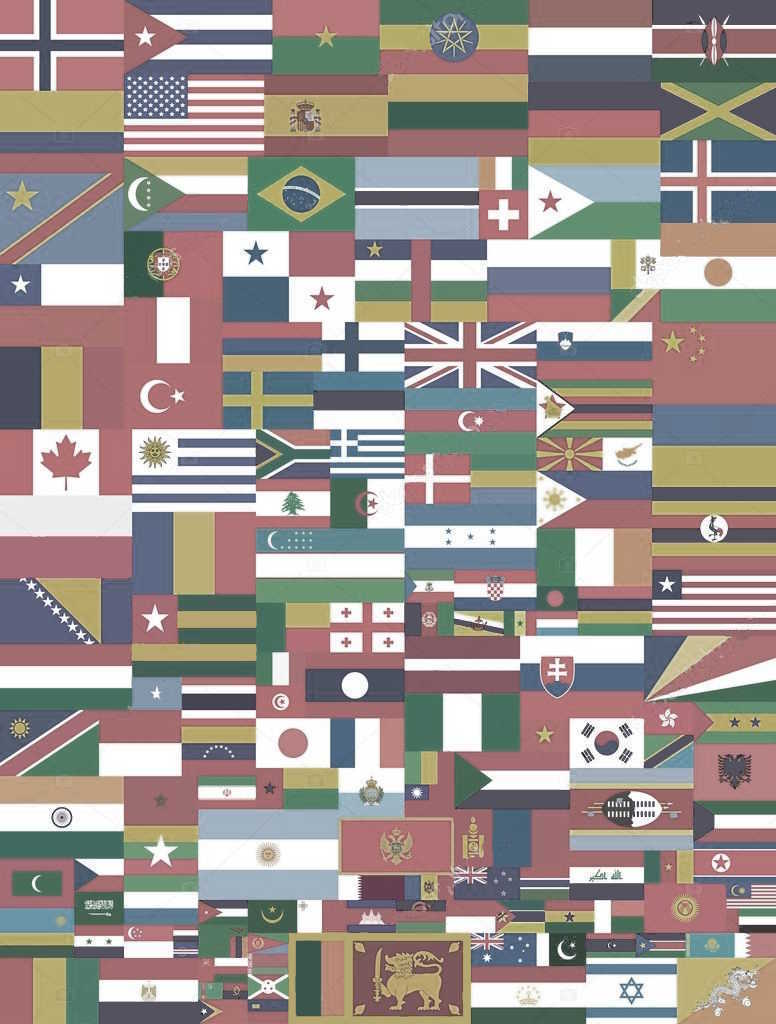
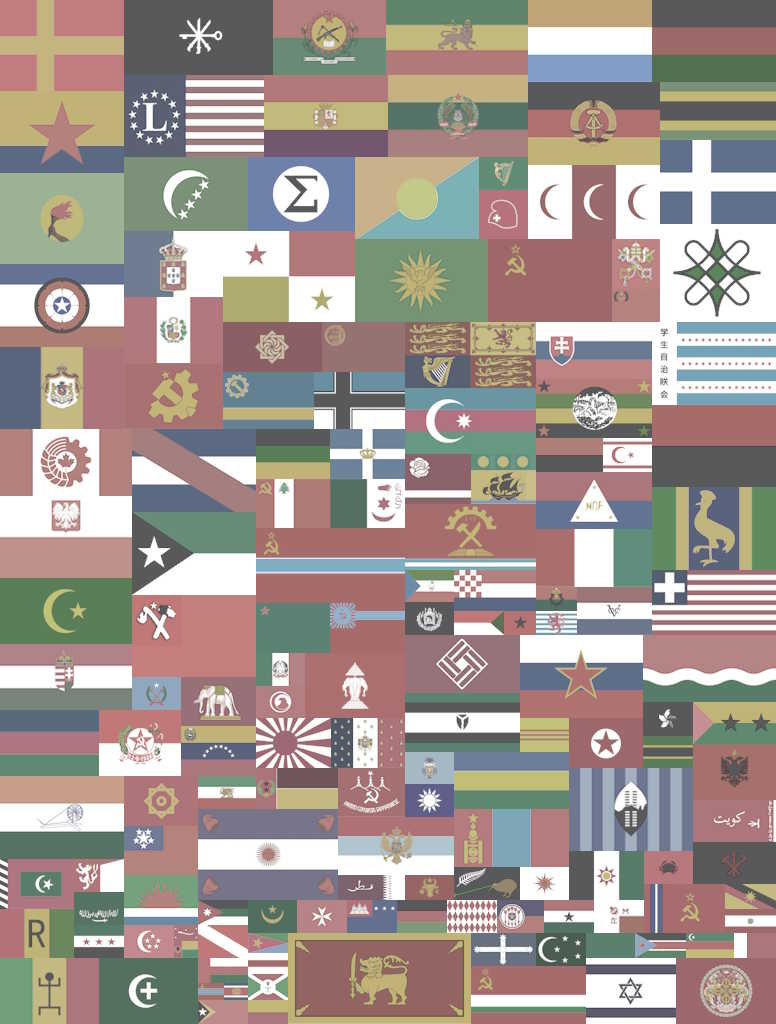
,

diff --git a/index.html b/index.html
@@ -25,9 +25,8 @@
 
         <div class="rail-container">
             <div class="rail-overlay"></div>
-                <button class="left-rail-toggle"><img src="images/menu-arrow.svg"></button>
+            <button class="left-rail-toggle"><img src="images/menu-arrow.svg"></button>
             <aside class="left-rail">
-                <!-- <p>Select Nation</p> -->
                 <div class="left-rail-content">
 
                     <div class="search-bar"><span>Search:</span><input type="text" id="nations-search-filter"
@@ -45,18 +44,21 @@
                         <ul class="nations-list">
                             <img src="https://media.tenor.com/3xTqDrUgvvIAAAAi/error-404.gif" alt="Loading..."
                                 class="loading-gif">
+                            <div>Refresh/reload the website if this takes longer than a minute</div>
                         </ul>
                     </div>
                     <div id="Releasables" class="tabcontent tabcontent-hidden">
                         <ul class="nations-list">
                             <img src="https://media.tenor.com/3xTqDrUgvvIAAAAi/error-404.gif" alt="Loading..."
                                 class="loading-gif">
+                            <div>Refresh/reload the website if this takes longer than a minute</div>
                         </ul>
                     </div>
                     <div id="Formables" class="tabcontent tabcontent-hidden">
                         <ul class="nations-list">
                             <img src="https://media.tenor.com/3xTqDrUgvvIAAAAi/error-404.gif" alt="Loading..."
                                 class="loading-gif">
+                            <div>Refresh/reload the website if this takes longer than a minute</div>
                         </ul>
                     </div>
                 </div>
@@ -69,86 +71,7 @@
                     <label>Nation name: </label><input id="nation-name">
                 </div>
 
-                <!-- <div class="flag">
-                    <button class="collapse-flag-overview-button">
-                        <div class="flag-overview">
-                            <div class="flag-overview-left">
-                                <img id="nation-flag" src="images/Unknown Flag.png">
-                                <p id="flag-name">Flag Name</p>
-                            </div>
-                            <div class="flag-overview-right">
-                                <div><span class="flag-overview-title">Flag ID: </span>1241345<span
-                                        class="flag-overview-content"></span></div>
-                                <div><span class="flag-overview-title">Flag ID: </span>1241345<span
-                                        class="flag-overview-content"></span></div>
-                                <div><span class="flag-overview-title">Flag ID: </span>1241345<span
-                                        class="flag-overview-content"></span></div>
-                            </div>
-                        </div>
-                    </button>
-                    <div class="flag-contents">
-
-                    <button class="delete-flag-button">Delete Flag</button>
-
-                        <div class="flag-label"><span class="flag-title">Name: </span><input class="flag-input"></div>
-                        <div class="flag-label"><span class="flag-title">Image ID: </span><input class="flag-input">
-                        </div>
-                        <div class="flag-label"><span class="flag-title">Description/Sources: </span><input
-                                class="flag-input"></div>
-                        <div class="ideologies">
-                            <ul>
-                                <li>
-                                    <button type="button" class="btn">Non-Aligned</button>
-                                    <ul>
-                                        <li>
-                                            <button style="color: #F3B6B6;" type="button" class="btn">Socialism</button>
-                                            <ul>
-                                                <li><button style="color: #F37B7B;" type="button"
-                                                        class="btn">Communism</button>
-                                                </li>
-                                            </ul>
-                                        </li>
-                                        <li>
-                                            <button style="color: #B5B6F3;" type="button"
-                                                class="btn">Liberalism</button>
-                                            <ul>
-                                                <li><button style="color: #7B7BF3;" type="button"
-                                                        class="btn">Democracy</button>
-                                                </li>
-                                            </ul>
-                                        </li>
-                                        <li>
-                                            <button style="color: #B8B8B9;" type="button"
-                                                class="btn">Nationalism</button>
-                                            <ul>
-                                                <li><button style="color: #7B7B7B;" type="button"
-                                                        class="btn">Fascism</button>
-                                                </li>
-                                            </ul>
-                                        </li>
-                                    </ul>
-                                </li>
-                            </ul>
-                        </div>
-
-                        <div class="laws">
-                            <div class="laws-selection">
-                                <img src="https://media.tenor.com/3xTqDrUgvvIAAAAi/error-404.gif" alt="Loading..."
-                                    class="loading-gif">
-                            </div>
-                            <div class="laws-name"></div>
-                            <div class="laws-level"></div>
-                        </div>
-                    </div>
-                </div> -->
-
-
-
                 <div class="new-flag-button"><button>
-                        <!-- <svg>
-                            <line x1="16" y1="4" x2="16" y2="32" stroke="currentColor" stroke-width="10"></line>
-                            <line y1="16" x2="32" y2="16" stroke="currentColor" stroke-width="10"></line>
-                        </svg> -->
                         <svg width="44" height="44" viewBox="0 0 24 24" fill="none" xmlns="http://www.w3.org/2000/svg">
                             <path d="M12 5V19M5 12H19" stroke="currentColor" stroke-width="5" />
                         </svg>

diff --git a/script.js b/script.js
@@ -8,7 +8,7 @@ import IMG_unknownFlag from './images/Unknown Flag.png';
 
 import { getImageIdFromDecalId } from './robloxProcessor.js';
 
-getImageIdFromDecalId('125185256557815').then(id => {
+getImageIdFromDecalId('89747006451463').then(id => {
     console.log(id);
 }).catch(console.error);
 
@@ -237,7 +237,7 @@ function removeFlag(index) {
     flagSpecifications.Flags.splice(index, 1);
 }
 
-// ─── Flag Element Creation ────────────────────────────────────────────────────
+// Flag Element Creation 
 /**
  * Creates all the html for a flag, adds events
  * @param {*} flagData 
@@ -660,7 +660,7 @@ document.addEventListener('DOMContentLoaded', () => {
             updateDisplay();
         });
 
-    // ── Rail toggle ──────────────────────────────────────────
+    //Rail toggle
     const rail = document.querySelector('.left-rail');
     const overlay = document.querySelector('.rail-overlay');
     const toggleBtn = document.querySelector('.left-rail-toggle');

diff --git a/robloxProcessor.js b/robloxProcessor.js
@@ -32,8 +32,8 @@ export async function getRobloxThumbnailURL(assetID, size = '700x700') {
 
 /**
  * Resolves a Roblox Decal ID to its underlying Image/Texture ID
- * @param {string|number} decalId
- * @returns {Promise<string>} The image asset ID
+ * @param {number} decalId
+ * @returns {number} The image asset ID
  */
 export async function getImageIdFromDecalId(decalId) {
     const response = await fetch(`/api/roblox-decal?decalid=${encodeURIComponent(decalId)}`);

diff --git a/style.css b/style.css
@@ -555,10 +555,6 @@ input {
     background-color: black;
 }
 
-#copy-output-btn.output-btn-copied span {
-    max-width: 10rem;
-}
-
 #copy-output-btn {
     background-color: var(--button-color);
     font-weight: bold;
@@ -598,7 +594,7 @@ input {
     background-color: white;
 }
 
-#copy-output-btn:hover span {
+#copy-output-btn:hover span, #copy-output-btn.output-btn-copied span {
     max-width: 10em;
     margin-right: 5px;
 }
